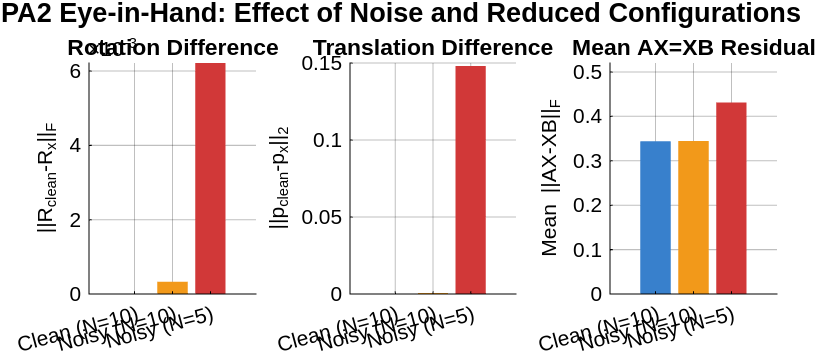
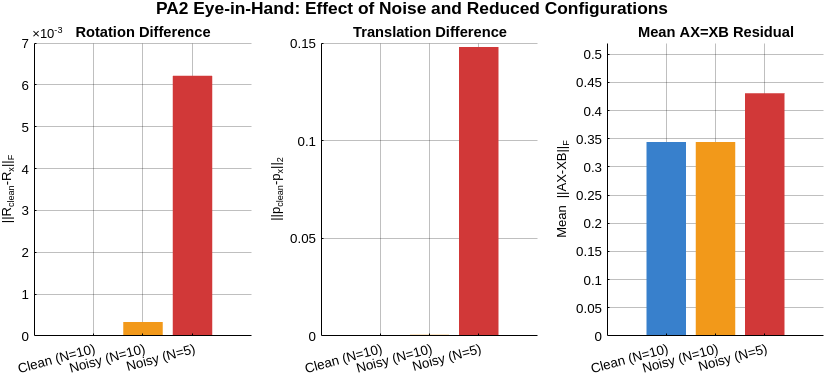
Updated figure generation script

Changed region(s): [[0.0, 0.0, 1.0, 0.9972], [0.0306, 0.779, 0.0612, 0.8102], [0.0306, 0.2181, 0.0612, 0.2493]]

diff --git a/THA3/gen_presentation_figs.m b/THA3/gen_presentation_figs.m
@@ -29,7 +29,7 @@ end
 %% =========================================================
 %  FIGURE 1: PA2 Comparison Bar Chart
 % =========================================================
-fig1 = figure('Position', [50 50 1050 440], 'Color', 'w');
+fig1 = figure('Position', [50 50 1800 700], 'Color', 'w');
 
 labels = {'Clean (N=10)', 'Noisy (N=10)', 'Noisy (N=5)'};
 colors = [0.22 0.50 0.80; 0.95 0.60 0.10; 0.82 0.22 0.22];
@@ -58,7 +58,7 @@ end
 sgtitle('PA2 Eye-in-Hand: Effect of Noise and Reduced Configurations', ...
     'FontSize', 13, 'FontWeight', 'bold', 'Color', 'k');
 
-exportgraphics(fig1, fullfile(out_dir, 'fig1_pa2_comparison.png'), 'Resolution', 150);
+exportgraphics(fig1, fullfile(out_dir, 'fig1_pa2_comparison.png'), 'Resolution', 96);
 fprintf('[1/5] Saved fig1_pa2_comparison.png\n');
 
 %% =========================================================
@@ -85,48 +85,59 @@ C_meas_a = fr_a{1}.C;
 C_exp_g  = compute_Cexp(d_g, a_g, c_g, fr_g{1});
 C_meas_g = fr_g{1}.C;
 
-fig2 = figure('Position', [50 50 1100 500], 'Color', 'w');
+fig2 = figure('Position', [50 50 1800 950], 'Color', 'w');
 
 subtitles2 = {'Dataset-a  (Clean,  max err = 0.007 mm)', ...
               'Dataset-g  (Distorted,  max err = 4.74 mm)'};
 Ce_list = {C_exp_a, C_exp_g};
 Cm_list = {C_meas_a, C_meas_g};
 
+h_exp = []; h_meas = []; ax2_handles = gobjects(1,2);
 for col = 1:2
-    ax = subplot(1,2,col);
+    axc = subplot(1,2,col);
+    ax2_handles(col) = axc;
     Ce = Ce_list{col};  Cm = Cm_list{col};
 
     hold on;
-    % Draw connecting lines first (hidden from legend)
     for j = 1:size(Ce,1)
         h = plot3([Ce(j,1) Cm(j,1)], [Ce(j,2) Cm(j,2)], [Ce(j,3) Cm(j,3)], ...
             'k-', 'LineWidth', 0.8);
         h.Color(4) = 0.35;
         h.HandleVisibility = 'off';
     end
-    scatter3(Ce(:,1), Ce(:,2), Ce(:,3), 60, [0.15 0.45 0.80], 'filled', ...
-        'DisplayName', 'C_{expected}');
-    scatter3(Cm(:,1), Cm(:,2), Cm(:,3), 60, [0.85 0.20 0.20], '^', 'filled', ...
-        'DisplayName', 'C_{measured}');
+    hs_exp  = scatter3(Ce(:,1), Ce(:,2), Ce(:,3), 60, [0.15 0.45 0.80], 'filled');
+    hs_meas = scatter3(Cm(:,1), Cm(:,2), Cm(:,3), 60, [0.85 0.20 0.20], '^', 'filled');
     hold off;
 
-    fix_axes(ax);
+    fix_axes(axc);
     xlabel('X (mm)'); ylabel('Y (mm)'); zlabel('Z (mm)');
-    title(subtitles2{col}, 'FontSize', 11);
-    wlegend('Location', 'best', 'FontSize', 10);
+    title(subtitles2{col}, 'FontSize', 13, 'FontWeight', 'bold');
     grid on; axis equal; view(35, 22);
+
+    if col == 1
+        h_exp = hs_exp;  h_meas = hs_meas;
+    end
 end
 
-sgtitle('EM Distortion: C_{expected} (optical) vs C_{measured} (EM sensor)', ...
-    'FontSize', 13, 'FontWeight', 'bold', 'Color', 'k');
+% Push subplots up to open clear space at the bottom for the legend
+set(ax2_handles(1), 'Position', [0.06  0.18  0.42  0.72]);
+set(ax2_handles(2), 'Position', [0.54  0.18  0.42  0.72]);
 
-exportgraphics(fig2, fullfile(out_dir, 'fig2_em_distortion.png'), 'Resolution', 150);
+% Single shared legend — horizontal strip at bottom center
+lg2 = legend([h_exp, h_meas], {'C_{expected}  (optical)', 'C_{measured}  (EM sensor)'}, ...
+    'Color','w', 'TextColor','k', 'EdgeColor',[0.6 0.6 0.6], 'FontSize', 13, ...
+    'Orientation', 'horizontal');
+lg2.Units = 'normalized';
+lg2.Position = [0.30 0.01 0.40 0.05];
+
+sgtitle('EM Distortion: C_{expected} vs C_{measured}', ...
+    'FontSize', 14, 'FontWeight', 'bold', 'Color', 'k');
+
+exportgraphics(fig2, fullfile(out_dir, 'fig2_em_distortion.png'), 'Resolution', 96);
 fprintf('[2/5] Saved fig2_em_distortion.png\n');
 
 %% =========================================================
-%  FIGURE 3: Point Cloud Registration
-%  Show mean-centered clouds for "before", then overlaid in
-%  optical frame for "after", plus per-marker residuals.
+%  FIGURE 3: Point Cloud Registration — 2-panel
 % =========================================================
 [~, d, a, ~] = cal_body_data('HW3-PA1/pa1-debug-a-calbody.txt');
 [~, fr3]     = cal_readings_data('HW3-PA1/pa1-debug-a-calreadings.txt');
@@ -137,64 +148,126 @@ d_xfm  = (F_D * [d'; ones(1,size(d,1))])';
 d_xfm  = d_xfm(:,1:3);
 
 % Mean-center for "before" panel
-d_c    = d    - mean(d,1);
-D_c    = D_meas - mean(D_meas,1);
+d_c = d     - mean(d,1);
+D_c = D_meas - mean(D_meas,1);
 
-residuals = sqrt(sum((D_meas - d_xfm).^2, 2));
+fig3 = figure('Position', [50 50 1400 900], 'Color', 'w');
 
-fig3 = figure('Position', [50 50 1200 450], 'Color', 'w');
-
-% Panel 1: mean-centered (same shape, different frames)
-ax31 = subplot(1,3,1);
+% Panel 1: mean-centered — blue (reference) first, then red (measured)
+ax31 = subplot(1,2,1);
 hold on;
-scatter3(d_c(:,1), d_c(:,2), d_c(:,3), 90, [0.15 0.45 0.80], 'filled', ...
-    'DisplayName', 'd_{body} (mean-centered)');
-scatter3(D_c(:,1), D_c(:,2), D_c(:,3), 90, [0.85 0.20 0.20], '^', 'filled', ...
-    'DisplayName', 'D_{meas} (mean-centered)');
+hs3_ref = scatter3(d_c(:,1), d_c(:,2), d_c(:,3), 90, [0.15 0.45 0.80], 'filled');
+hs3_meas = scatter3(D_c(:,1), D_c(:,2), D_c(:,3), 90, [0.85 0.20 0.20], '^', 'filled');
 hold off;
 fix_axes(ax31);
-title('Before: Both Mean-Centered', 'FontSize', 12);
+title('Before Registration (Mean-Centered)', 'FontSize', 13, 'FontWeight', 'bold');
 xlabel('X (mm)'); ylabel('Y (mm)'); zlabel('Z (mm)');
-wlegend('Location', 'best', 'FontSize', 9);
 grid on; axis equal; view(35, 22);
 
-% Panel 2: after registration — transformed d overlaid on D_meas
-ax32 = subplot(1,3,2);
+% Panel 2: after — blue (transformed reference) first, then red (measured)
+ax32 = subplot(1,2,2);
 hold on;
-scatter3(D_meas(:,1), D_meas(:,2), D_meas(:,3), 90, [0.85 0.20 0.20], '^', 'filled', ...
-    'DisplayName', 'D_{measured}');
-scatter3(d_xfm(:,1), d_xfm(:,2), d_xfm(:,3), 90, [0.15 0.45 0.80], 'o', 'filled', ...
-    'DisplayName', 'd_{body} transformed');
+scatter3(d_xfm(:,1), d_xfm(:,2), d_xfm(:,3), 90, [0.15 0.45 0.80], 'o', 'filled');
+scatter3(D_meas(:,1), D_meas(:,2), D_meas(:,3), 90, [0.85 0.20 0.20], '^', 'filled');
 for j = 1:size(D_meas,1)
-    h = plot3([D_meas(j,1) d_xfm(j,1)], [D_meas(j,2) d_xfm(j,2)], ...
-              [D_meas(j,3) d_xfm(j,3)], 'k--', 'LineWidth', 1.0);
+    h = plot3([d_xfm(j,1) D_meas(j,1)], [d_xfm(j,2) D_meas(j,2)], ...
+              [d_xfm(j,3) D_meas(j,3)], 'k--', 'LineWidth', 1.0);
     h.Color(4) = 0.40;
     h.HandleVisibility = 'off';
 end
 hold off;
 fix_axes(ax32);
-title('After: F_D Applied (Optical Frame)', 'FontSize', 12);
+title('After Registration (F_D Applied)', 'FontSize', 13, 'FontWeight', 'bold');
 xlabel('X (mm)'); ylabel('Y (mm)'); zlabel('Z (mm)');
-wlegend('Location', 'best', 'FontSize', 9);
 grid on; axis equal; view(35, 22);
 
-% Panel 3: residuals — values are sub-nanometer (optical precision)
-ax33 = subplot(1,3,3);
-bar(residuals * 1e10, 'FaceColor', [0.15 0.45 0.80], 'EdgeColor', 'none');
-fix_axes(ax33);
-xlabel('Marker index', 'FontSize', 11);
-ylabel('Residual (\times10^{-10} mm)', 'FontSize', 11);
-title(sprintf('Per-marker Residuals\n(mean = %.2e mm)', mean(residuals)), 'FontSize', 12);
-ylim([0 max(residuals*1e10)*2 + 1e-3]);
-grid on; box off;
-text(4.5, max(ylim)*0.6, {'Optical tracker', 'sub-nanometer precision'}, ...
-    'HorizontalAlignment','center', 'FontSize', 10, 'Color', [0.3 0.3 0.3]);
+% Push subplots up to open clear space at the bottom for the legend
+set(ax31, 'Position', [0.06  0.18  0.42  0.72]);
+set(ax32, 'Position', [0.54  0.18  0.42  0.72]);
 
-sgtitle('cloud2cloud SVD Registration: Dataset-a, Frame 1 (D markers)', ...
-    'FontSize', 13, 'FontWeight', 'bold', 'Color', 'k');
+% Single shared legend — horizontal strip at bottom center
+lg3 = legend([hs3_ref, hs3_meas], ...
+    {'d_{body}  (known reference)', 'D_{measured}  (optical tracker)'}, ...
+    'Color','w', 'TextColor','k', 'EdgeColor',[0.6 0.6 0.6], 'FontSize', 13, ...
+    'Orientation', 'horizontal');
+lg3.Units = 'normalized';
+lg3.Position = [0.23 0.01 0.54 0.05];
 
-exportgraphics(fig3, fullfile(out_dir, 'fig3_point_cloud_registration.png'), 'Resolution', 150);
+sgtitle('cloud2cloud SVD Registration: Dataset-a, Frame 1', ...
+    'FontSize', 14, 'FontWeight', 'bold', 'Color', 'k');
+
+exportgraphics(fig3, fullfile(out_dir, 'fig3_point_cloud_registration.png'), 'Resolution', 96);
 fprintf('[3/5] Saved fig3_point_cloud_registration.png\n');
+
+%% =========================================================
+%  FIGURE 3.1: Alternative Registration — EM probe, ~180 deg rotation
+%  Uses empivot G markers: frame 1 vs frame 2 (179.75 deg rotation)
+%  Much more dramatic before/after than the near-zero-rotation D example.
+% =========================================================
+[~, ~, G3] = empivot_data('HW3-PA1/pa1-debug-a-empivot.txt');
+G3_ref  = G3{1};
+G3_fr2  = G3{2};
+
+% Mean-center both for "before" panel
+G3_ref_c = G3_ref - mean(G3_ref, 1);
+G3_fr2_c = G3_fr2 - mean(G3_fr2, 1);
+
+% Solve registration and apply for "after" panel
+F3alt    = cloud2cloud(G3_ref, G3_fr2);
+G3_xfm   = (F3alt * [G3_ref'; ones(1, size(G3_ref,1))])';
+G3_xfm   = G3_xfm(:,1:3);
+
+fig3b = figure('Position', [50 50 1400 900], 'Color', 'w');
+
+% Panel 1: before — same shape, very different orientation (~180 deg)
+ax3b1 = subplot(1,2,1);
+hold on;
+hs3b_ref  = scatter3(G3_ref_c(:,1), G3_ref_c(:,2), G3_ref_c(:,3), ...
+    110, [0.15 0.45 0.80], 'filled');
+hs3b_meas = scatter3(G3_fr2_c(:,1), G3_fr2_c(:,2), G3_fr2_c(:,3), ...
+    110, [0.85 0.20 0.20], '^', 'filled');
+hold off;
+fix_axes(ax3b1);
+title('Before Registration  (\approx180\circ rotation)', 'FontSize', 13, 'FontWeight', 'bold');
+xlabel('X (mm)'); ylabel('Y (mm)'); zlabel('Z (mm)');
+grid on; axis equal; view(35, 22);
+
+% Panel 2: after — G_ref transformed onto G_fr2
+ax3b2 = subplot(1,2,2);
+hold on;
+scatter3(G3_xfm(:,1), G3_xfm(:,2), G3_xfm(:,3), ...
+    110, [0.15 0.45 0.80], 'o', 'filled');
+scatter3(G3_fr2(:,1),  G3_fr2(:,2),  G3_fr2(:,3), ...
+    110, [0.85 0.20 0.20], '^', 'filled');
+for j = 1:size(G3_fr2,1)
+    h = plot3([G3_xfm(j,1) G3_fr2(j,1)], [G3_xfm(j,2) G3_fr2(j,2)], ...
+              [G3_xfm(j,3) G3_fr2(j,3)], 'k--', 'LineWidth', 1.0);
+    h.Color(4) = 0.40;
+    h.HandleVisibility = 'off';
+end
+hold off;
+fix_axes(ax3b2);
+title('After Registration  (SVD solved)', 'FontSize', 13, 'FontWeight', 'bold');
+xlabel('X (mm)'); ylabel('Y (mm)'); zlabel('Z (mm)');
+grid on; axis equal; view(35, 22);
+
+% Push subplots up for legend space
+set(ax3b1, 'Position', [0.06  0.18  0.42  0.72]);
+set(ax3b2, 'Position', [0.54  0.18  0.42  0.72]);
+
+% Shared legend
+lg3b = legend([hs3b_ref, hs3b_meas], ...
+    {'g_{body}  (frame 1 reference)', 'G_{measured}  (frame 2, EM tracker)'}, ...
+    'Color','w', 'TextColor','k', 'EdgeColor',[0.6 0.6 0.6], 'FontSize', 13, ...
+    'Orientation', 'horizontal');
+lg3b.Units = 'normalized';
+lg3b.Position = [0.20 0.01 0.60 0.05];
+
+sgtitle('cloud2cloud SVD Registration: EM Probe Markers, Frames 1 \rightarrow 2  (\approx180\circ)', ...
+    'FontSize', 14, 'FontWeight', 'bold', 'Color', 'k');
+
+exportgraphics(fig3b, fullfile(out_dir, 'fig3_1_registration_alt.png'), 'Resolution', 96);
+fprintf('[3.1] Saved fig3_1_registration_alt.png\n');
 
 %% =========================================================
 %  FIGURE 4: Pivot Calibration Sweep
@@ -214,7 +287,7 @@ for k = 1:N_piv
     tip_est(k,:) = pt(1:3)';
 end
 
-fig4 = figure('Position', [50 50 820 640], 'Color', 'w');
+fig4 = figure('Position', [50 50 1100 900], 'Color', 'w');
 ax4 = axes(fig4);
 hold on;
 
@@ -266,7 +339,7 @@ title({'Pivot Calibration: EM Probe — Dataset-a', ...
 wlegend('Location', 'northeast', 'FontSize', 10);
 grid on; view(30, 22);
 
-exportgraphics(fig4, fullfile(out_dir, 'fig4_pivot_calibration.png'), 'Resolution', 150);
+exportgraphics(fig4, fullfile(out_dir, 'fig4_pivot_calibration.png'), 'Resolution', 96);
 fprintf('[4/5] Saved fig4_pivot_calibration.png\n');
 
 %% =========================================================
@@ -276,7 +349,7 @@ R_x = [-0.00320  0.99999 -0.00011;
         -0.00077  0.00011  1.00000;
          0.99999  0.00320  0.00077];
 
-fig5 = figure('Position', [50 50 860 640], 'Color', 'w');
+fig5 = figure('Position', [50 50 1100 900], 'Color', 'w');
 ax5 = axes(fig5);
 hold on;
 
@@ -330,7 +403,7 @@ title({'PA2: Solved X  (Camera \rightarrow End-Effector)', ...
 wlegend('Location', 'southeast', 'FontSize', 11);
 grid on; view(20, 22); axis equal;
 
-exportgraphics(fig5, fullfile(out_dir, 'fig5_Rx_frame.png'), 'Resolution', 150);
+exportgraphics(fig5, fullfile(out_dir, 'fig5_Rx_frame.png'), 'Resolution', 96);
 fprintf('[5/5] Saved fig5_Rx_frame.png\n');
 
 fprintf('\nAll figures saved to: %s\n', out_dir);
